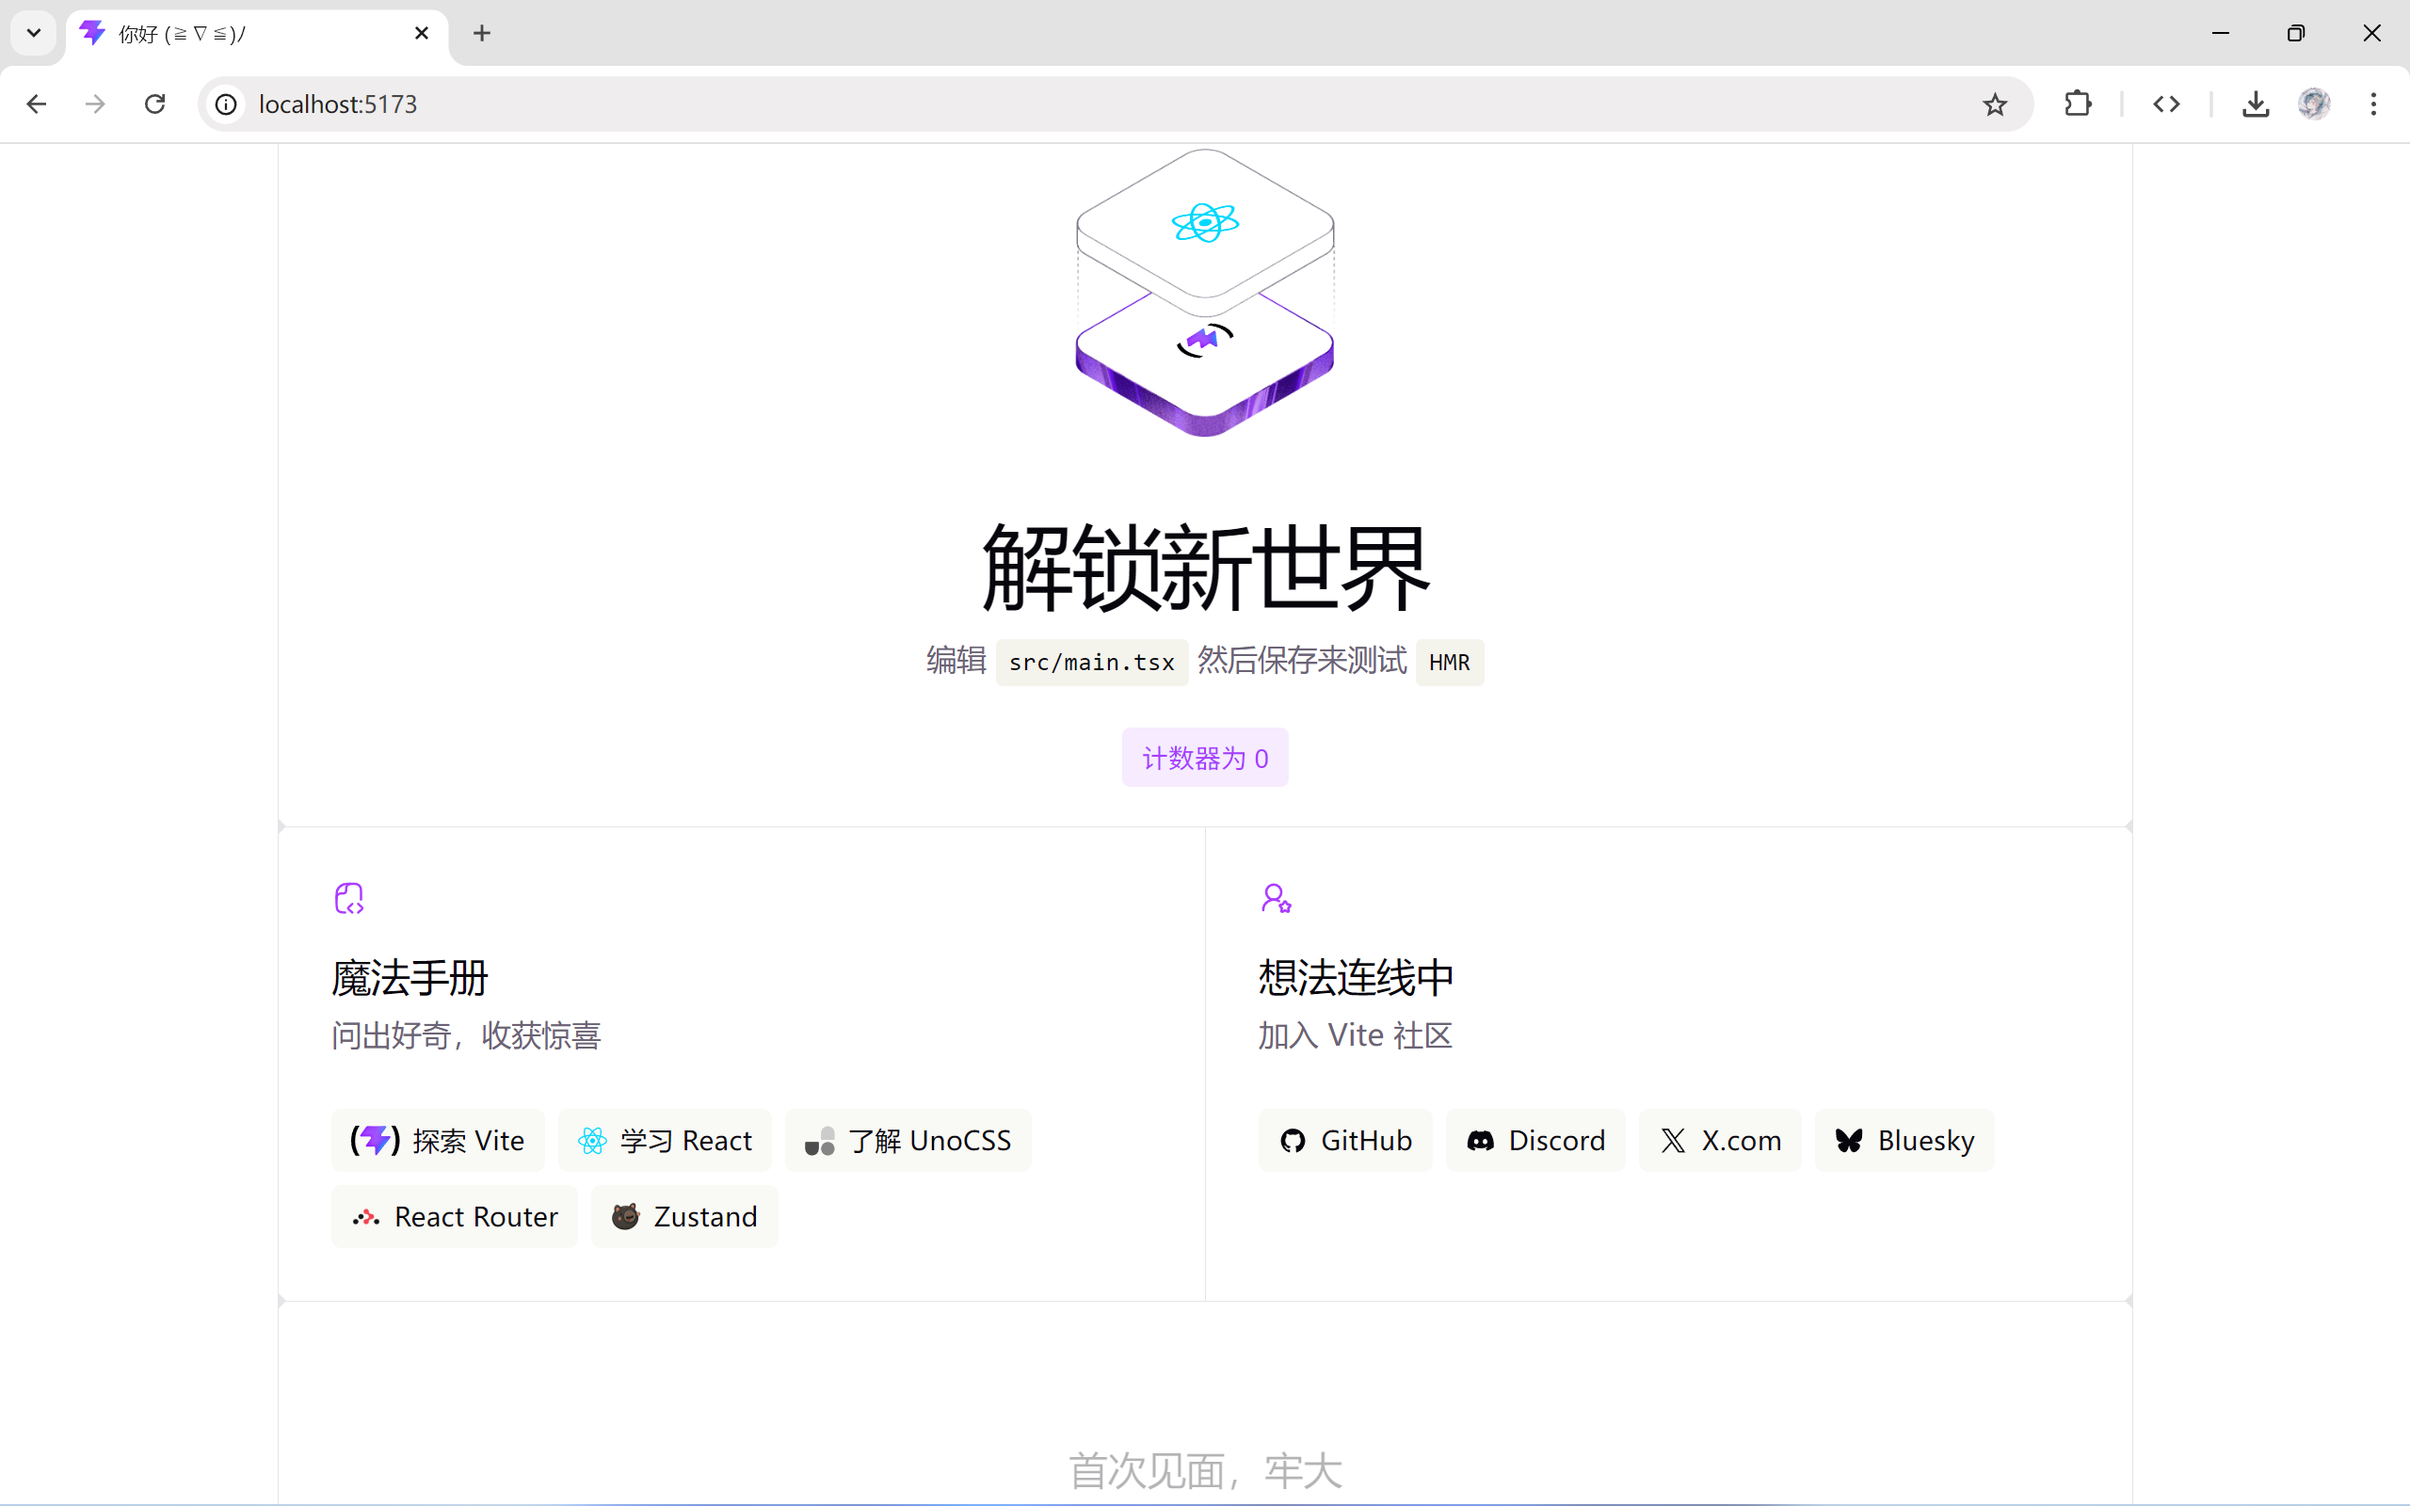
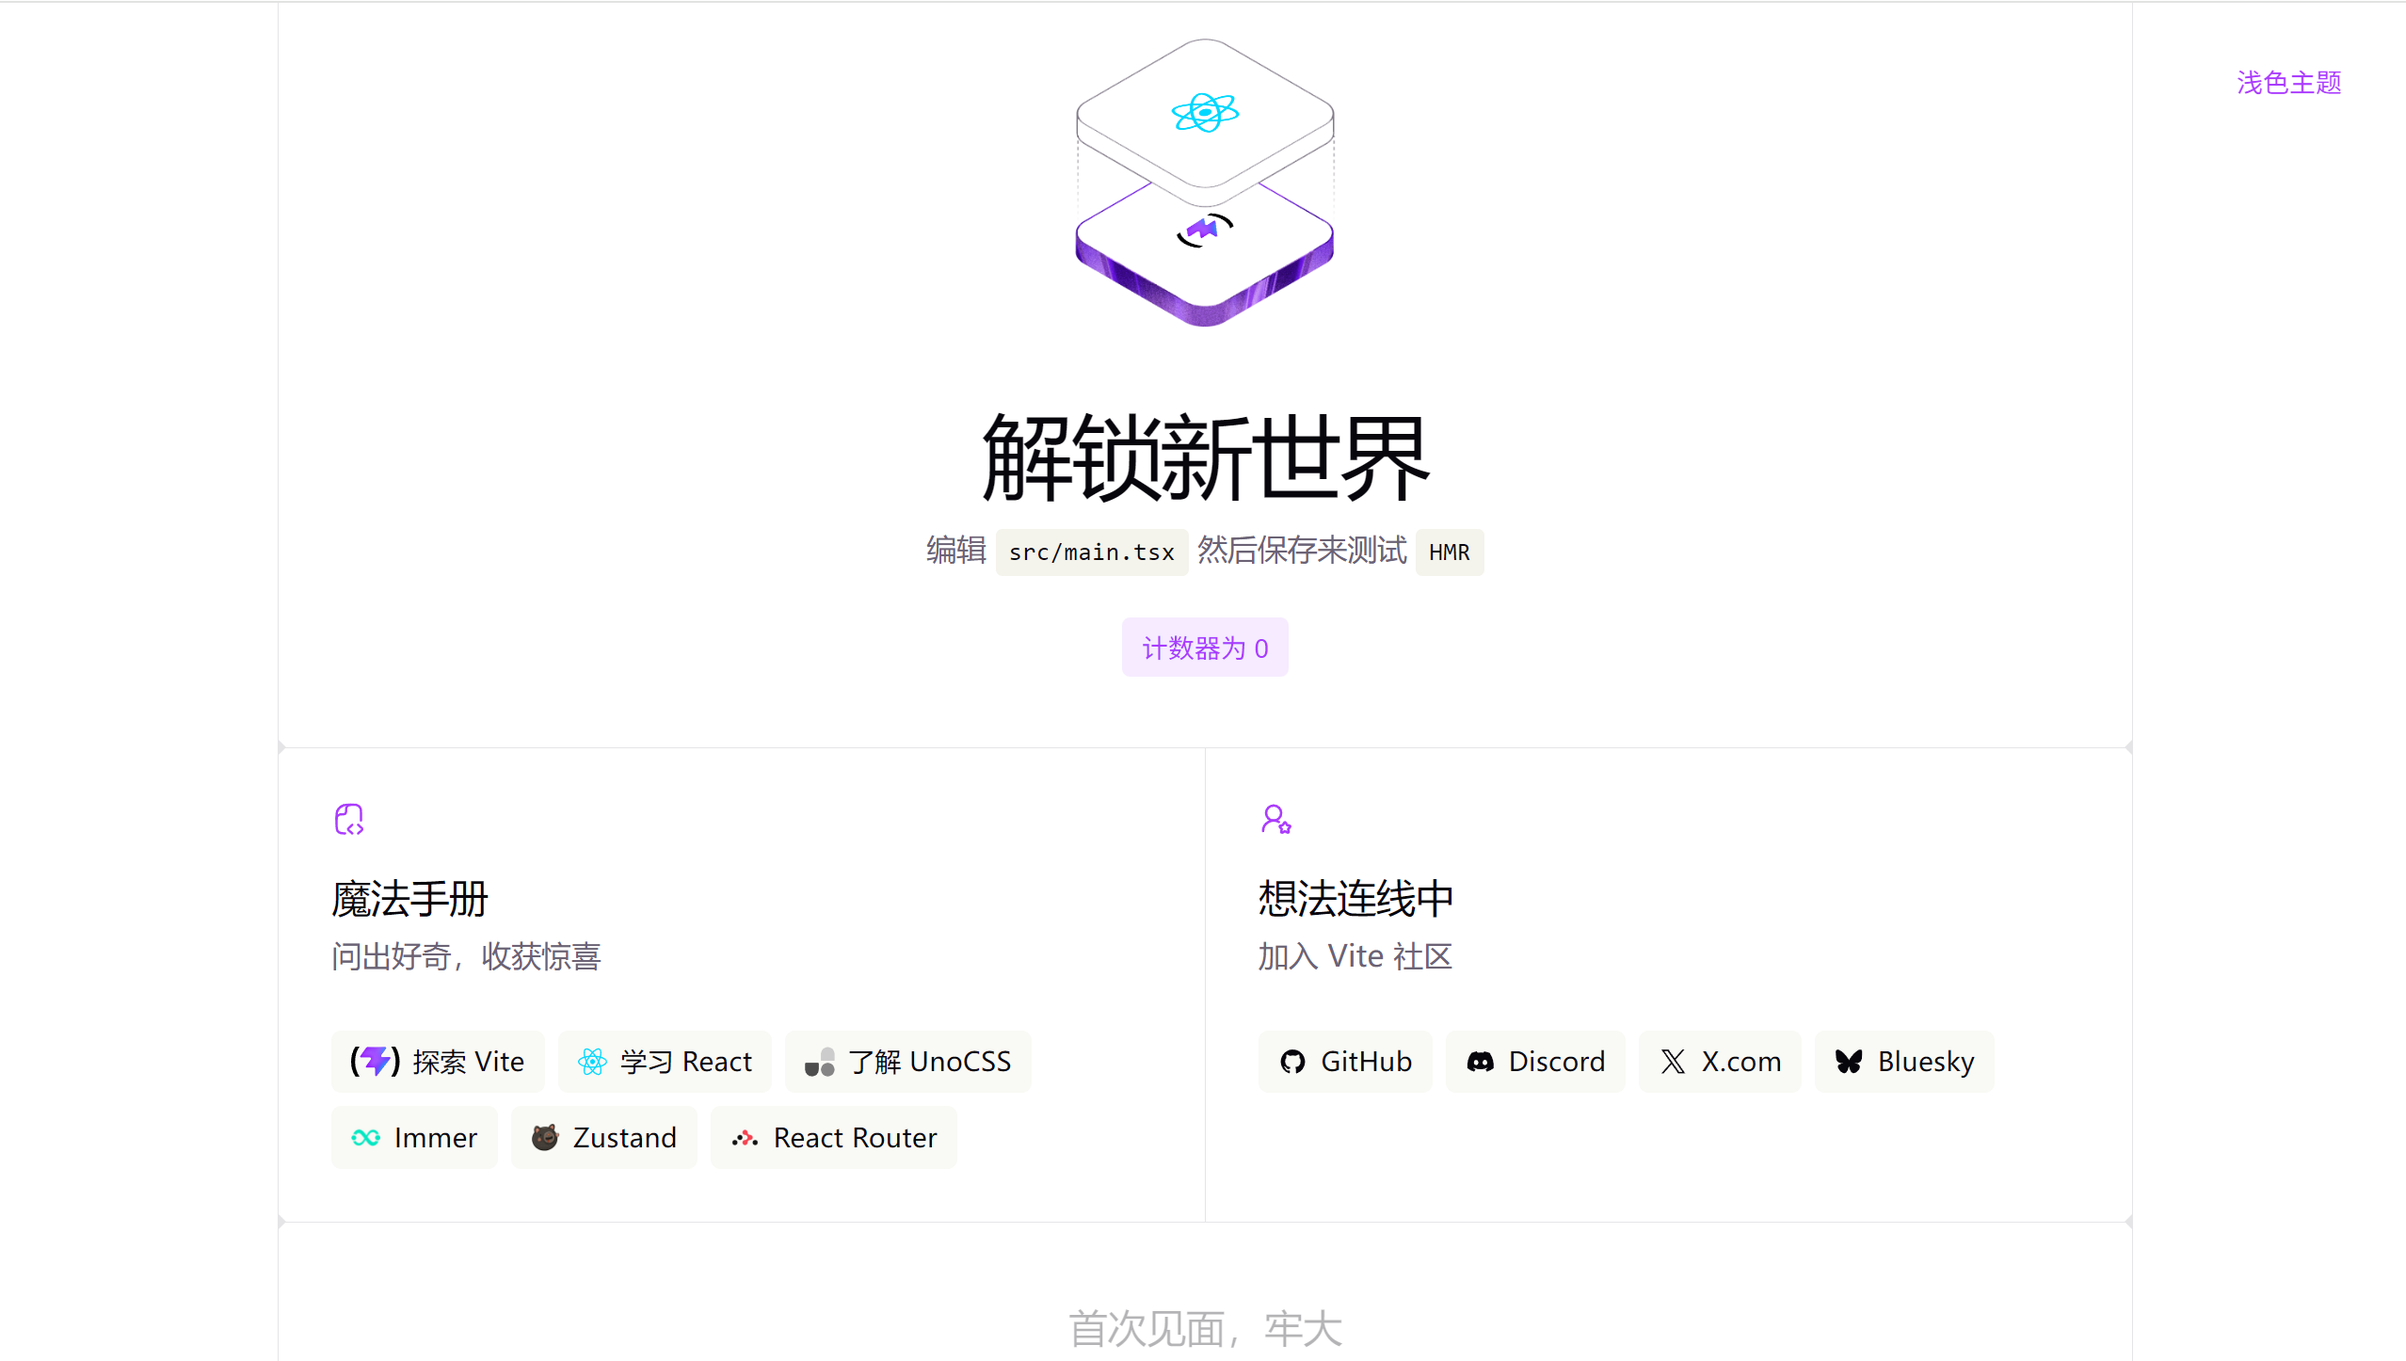
feat: 更新模块

diff --git a/src/components/theme/ThemeManager.tsx b/src/components/theme/ThemeManager.tsx
@@ -1,0 +1,46 @@
+import { useGlobalStore } from '@shared/stores/useGlobalStore'
+import { ComponentProps, useEffect } from 'react'
+import { clsx } from 'clsx'
+
+// 切换主题
+function switchTheme(isDark: boolean) {
+  if (isDark) {
+    document.documentElement.classList.add('dark')
+  } else {
+    document.documentElement.classList.remove('dark')
+  }
+}
+
+export function ThemeManager(props: ComponentProps<'button'>) {
+  const isDark = useGlobalStore(state => state.isDark)
+  const setDark = useGlobalStore(state => state.setDark)
+
+  function handleClick() {
+    document.startViewTransition(() => {
+      setDark(!isDark)
+    })
+  }
+
+  // 主题监听器只在挂载时创建
+  useEffect(() => {
+    const media = window.matchMedia('(prefers-color-scheme: dark)')
+    const handleChange = (e: MediaQueryListEvent) => {
+      setDark(e.matches)
+    }
+    media.addEventListener('change', handleChange)
+    return () => {
+      media.removeEventListener('change', handleChange)
+    }
+  }, [ setDark ])
+
+  // 每次 isDark 状态更新时触发主题切换
+  useEffect(() => {
+    switchTheme(isDark)
+  }, [ isDark ])
+
+  return (
+    <button className={ clsx(
+      'button1 pos-fixed top-30px right-30px bg-transparent'
+    ) } onClick={ handleClick } { ...props } >{ isDark ? '深色' : '浅色' }主题</button>
+  )
+}

diff --git a/src/pages/home/Home.tsx b/src/pages/home/Home.tsx
@@ -4,6 +4,7 @@ import heroImg from './assets/images/hero.png'
 import unocssLogo from './assets/images/unocss.svg'
 import routerImg from './assets/images/router.png'
 import zustandImg from './assets/images/zustand.ico'
+import immerImg from './assets/images/immer.ico'
 import { Button } from '@components/buttons'
 
 
@@ -55,15 +56,21 @@ export default function Home() {
               </a>
             </li>
             <li>
-              <a href="https://reactrouter.remix.org.cn/home" target="_blank">
-                <img className="button-icon" src={ routerImg } alt="" />
-                React Router
+              <a href="https://immerjs.github.io/immer/zh-CN/example-setstate" target="_blank">
+                <img className="button-icon" src={ immerImg } alt="" />
+                Immer
               </a>
             </li>
             <li>
               <a href="https://ouweiya.github.io/zustand-zh" target="_blank">
                 <img className="button-icon" src={ zustandImg } alt="" />
                 Zustand
+              </a>
+            </li>
+            <li>
+              <a href="https://reactrouter.remix.org.cn/home" target="_blank">
+                <img className="button-icon" src={ routerImg } alt="" />
+                React Router
               </a>
             </li>
           </ul>

diff --git a/src/shared/styles/global.less b/src/shared/styles/global.less
@@ -1,3 +1,5 @@
+@import "theme-transition";
+
 .counter {
   font-size: 16px;
   padding: 5px 10px;
@@ -155,7 +157,7 @@
 }
 
 #spacer {
-  height: 88px;
+  height: 50px;
   border-top: 1px solid var(--border);
   @media (max-width: 1024px) {
     height: 48px;
@@ -217,19 +219,17 @@
   }
 }
 
-@media (prefers-color-scheme: dark) {
-  :root {
-    --text: #9ca3af;
-    --text-h: #f3f4f6;
-    --bg: #16171d;
-    --border: #2e303a;
-    --code-bg: #1f2028;
-    --accent: #c084fc;
-    --accent-bg: rgba(192, 132, 252, 0.15);
-    --accent-border: rgba(192, 132, 252, 0.5);
-    --social-bg: rgba(47, 48, 58, 0.5);
-    --shadow: rgba(0, 0, 0, 0.4) 0 10px 15px -3px, rgba(0, 0, 0, 0.25) 0 4px 6px -2px;
-  }
+.dark {
+  --text: #9ca3af;
+  --text-h: #f3f4f6;
+  --bg: #16171d;
+  --border: #2e303a;
+  --code-bg: #1f2028;
+  --accent: #c084fc;
+  --accent-bg: rgba(192, 132, 252, 0.15);
+  --accent-border: rgba(192, 132, 252, 0.5);
+  --social-bg: rgba(47, 48, 58, 0.5);
+  --shadow: rgba(0, 0, 0, 0.4) 0 10px 15px -3px, rgba(0, 0, 0, 0.25) 0 4px 6px -2px;
 
   #social .button-icon {
     filter: invert(1) brightness(2);

diff --git a/src/components/buttons/Button.tsx b/src/components/buttons/Button.tsx
@@ -1,5 +1,4 @@
 import { ComponentProps, useState } from 'react'
-import { clsx } from 'clsx'
 
 
 function Button(props: ComponentProps<'button'>) {
@@ -13,12 +12,7 @@ function Button(props: ComponentProps<'button'>) {
 
   return (
     <button className={
-      clsx('text-16px p-x-10px p-y-5px border-rd-5px',
-        'color1 bg-color1 border-2px border-transparent border-solid',
-        'transition-colors-300 m-b-24px',
-        'hover:border-color1',
-        'focus-visible:outline1 outline-offset-2'
-      )
+      'button1'
     } onClick={ handleClick } { ...prop } >
       { children ?? `计数器为 ${ count }` }
     </button>

diff --git a/uno.config.ts b/uno.config.ts
@@ -1,8 +1,17 @@
 import { defineConfig } from 'unocss'
+import { clsx } from 'clsx'
 
 
 export default defineConfig({
   // ...UnoCSS 设置
+  shortcuts: {
+    'button1': clsx('text-16px p-x-10px p-y-5px border-rd-5px',
+      'color1 bg-color1 border-2px border-transparent border-solid',
+      'transition-colors-300 m-b-24px',
+      'hover:border-color1',
+      'focus-visible:outline1 outline-offset-2'
+    ),
+  },
   rules: [
     [ 'color1', { color: 'var(--accent)' } ],
     [ 'bg-color1', { background: 'var(--accent-bg)' } ],

diff --git a/src/shared/styles/theme-transition.less b/src/shared/styles/theme-transition.less
@@ -1,0 +1,30 @@
+::view-transition-group(root) {
+  animation-duration: .7s;
+  animation-fill-mode: both;
+}
+
+::view-transition-new(root) {
+  animation-name: reveal-dark;
+}
+
+
+::view-transition-old(root),
+.dark::view-transition-old(root) {
+  animation: none;
+  animation-fill-mode: both;
+  z-index: -1;
+}
+
+.dark::view-transition-new(root) {
+  animation-name: reveal-dark;
+}
+
+
+@keyframes reveal-dark {
+  from {
+    clip-path: circle(20px at top 55px right 55px);
+  }
+  to {
+    clip-path: circle(100%);
+  }
+}

diff --git a/src/shared/stores/useGlobalStore.ts b/src/shared/stores/useGlobalStore.ts
@@ -1,0 +1,13 @@
+import { create } from 'zustand'
+import { immer } from 'zustand/middleware/immer'
+
+
+export const useGlobalStore = create<GlobalStore>()(
+  immer(set => ({
+      isDark: window.matchMedia('(prefers-color-scheme: dark)').matches,
+      setDark: (isDark) => {
+        set(state => {state.isDark = isDark})
+      }
+    }
+  ))
+)

diff --git a/src/pages/app/App.tsx b/src/pages/app/App.tsx
@@ -1,11 +1,12 @@
 import { Outlet } from 'react-router'
+import { ThemeManager } from '@components/theme/ThemeManager.tsx'
 
 
 function App() {
-
   return (
     <>
       <Outlet />
+      <ThemeManager />
       <h2 className="op-30">首次见面，牢大</h2>
     </>
   )

diff --git a/src/main.tsx b/src/main.tsx
@@ -1,6 +1,6 @@
 import '@unocss/reset/normalize.css'
 import 'virtual:uno.css'
-import '@shared/styles.global.less'
+import '@shared/styles/global.less'
 
 import { StrictMode } from 'react'
 import { createRoot } from 'react-dom/client'

diff --git a/src/routers/index.tsx b/src/routers/index.tsx
@@ -1,6 +1,5 @@
 import { createBrowserRouter } from 'react-router'
-import App from '@components/app'
-import { Home } from '@components/pages'
+import { App, Home } from '@renderer/pages'
 
 
 const router = createBrowserRouter([

diff --git a/src/pages/index.ts b/src/pages/index.ts
@@ -1,6 +1,8 @@
 import Home from './home/Home.tsx'
+import App from './app/App.tsx'
 
 
 export {
-  Home
+  Home,
+  App
 }

diff --git a/src/shared/types/global.d.ts b/src/shared/types/global.d.ts
@@ -1,0 +1,4 @@
+declare interface GlobalStore {
+  isDark: boolean,
+  setDark: (isDark: boolean) => void
+}
